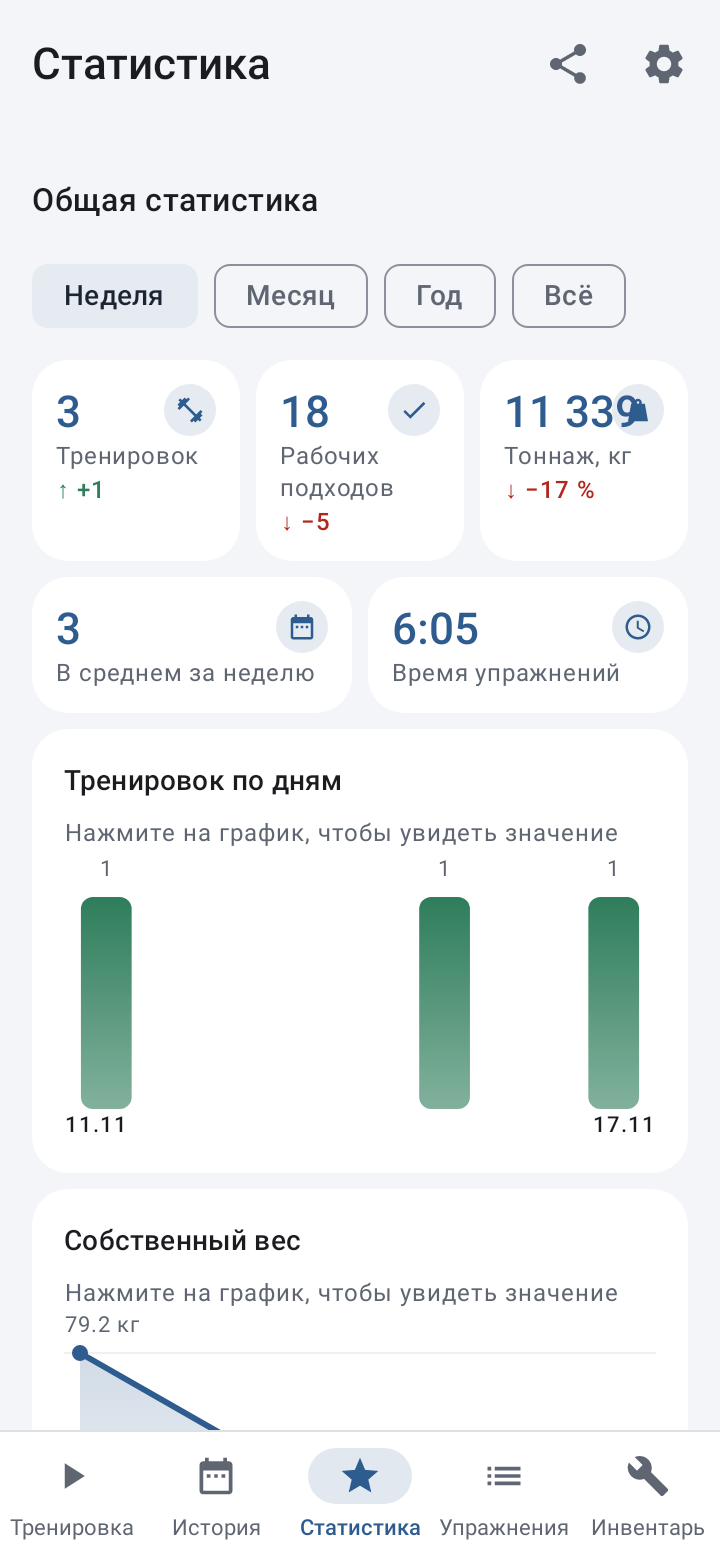
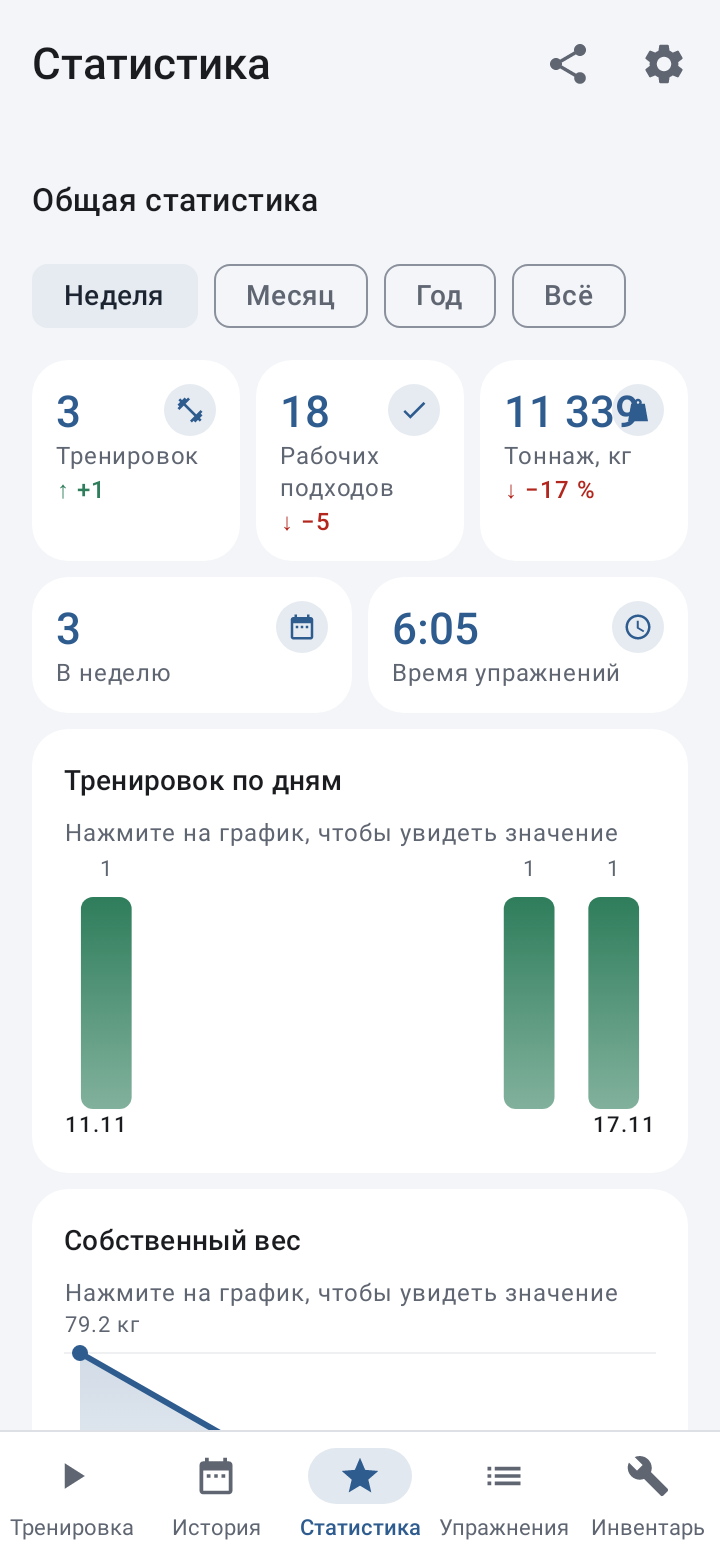
Плитка «В неделю» короче — подпись не переносится, ряды статистики ровные (1.51)

Changed region(s): [[0.5806, 0.5538, 0.7944, 0.7385], [0.1222, 0.4308, 0.2444, 0.4615], [0.3361, 0.4308, 0.3667, 0.4615]]

diff --git a/changelog/changelog_ru.md b/changelog/changelog_ru.md
@@ -1,5 +1,8 @@
 # Что нового в SonnikToPower
 
+## 1.51
+- Подпись плитки «В неделю» стала короче — не переносится на две строки, ряды статистики ровные
+
 ## 1.50
 - Статистика нагляднее: плитки «Тренировок», «Подходов» и «Тоннаж» показывают сравнение с прошлым периодом — «↑ +3» или «↓ 12 %»
 - Вместо плиток «На этой неделе» и «В этом месяце» — «В среднем за неделю» за выбранный период

diff --git a/changelog/changelog_en.md b/changelog/changelog_en.md
@@ -1,5 +1,8 @@
 # What's new in SonnikToPower
 
+## 1.51
+- The “Per week” tile label is shorter now — no two-line wrap, stat rows stay even
+
 ## 1.50
 - Clearer statistics: the Workouts, Sets and Tonnage tiles now compare against the previous period — “↑ +3” or “↓ 12 %”
 - “This week” and “This month” tiles replaced by “Per week on average” over the selected period
